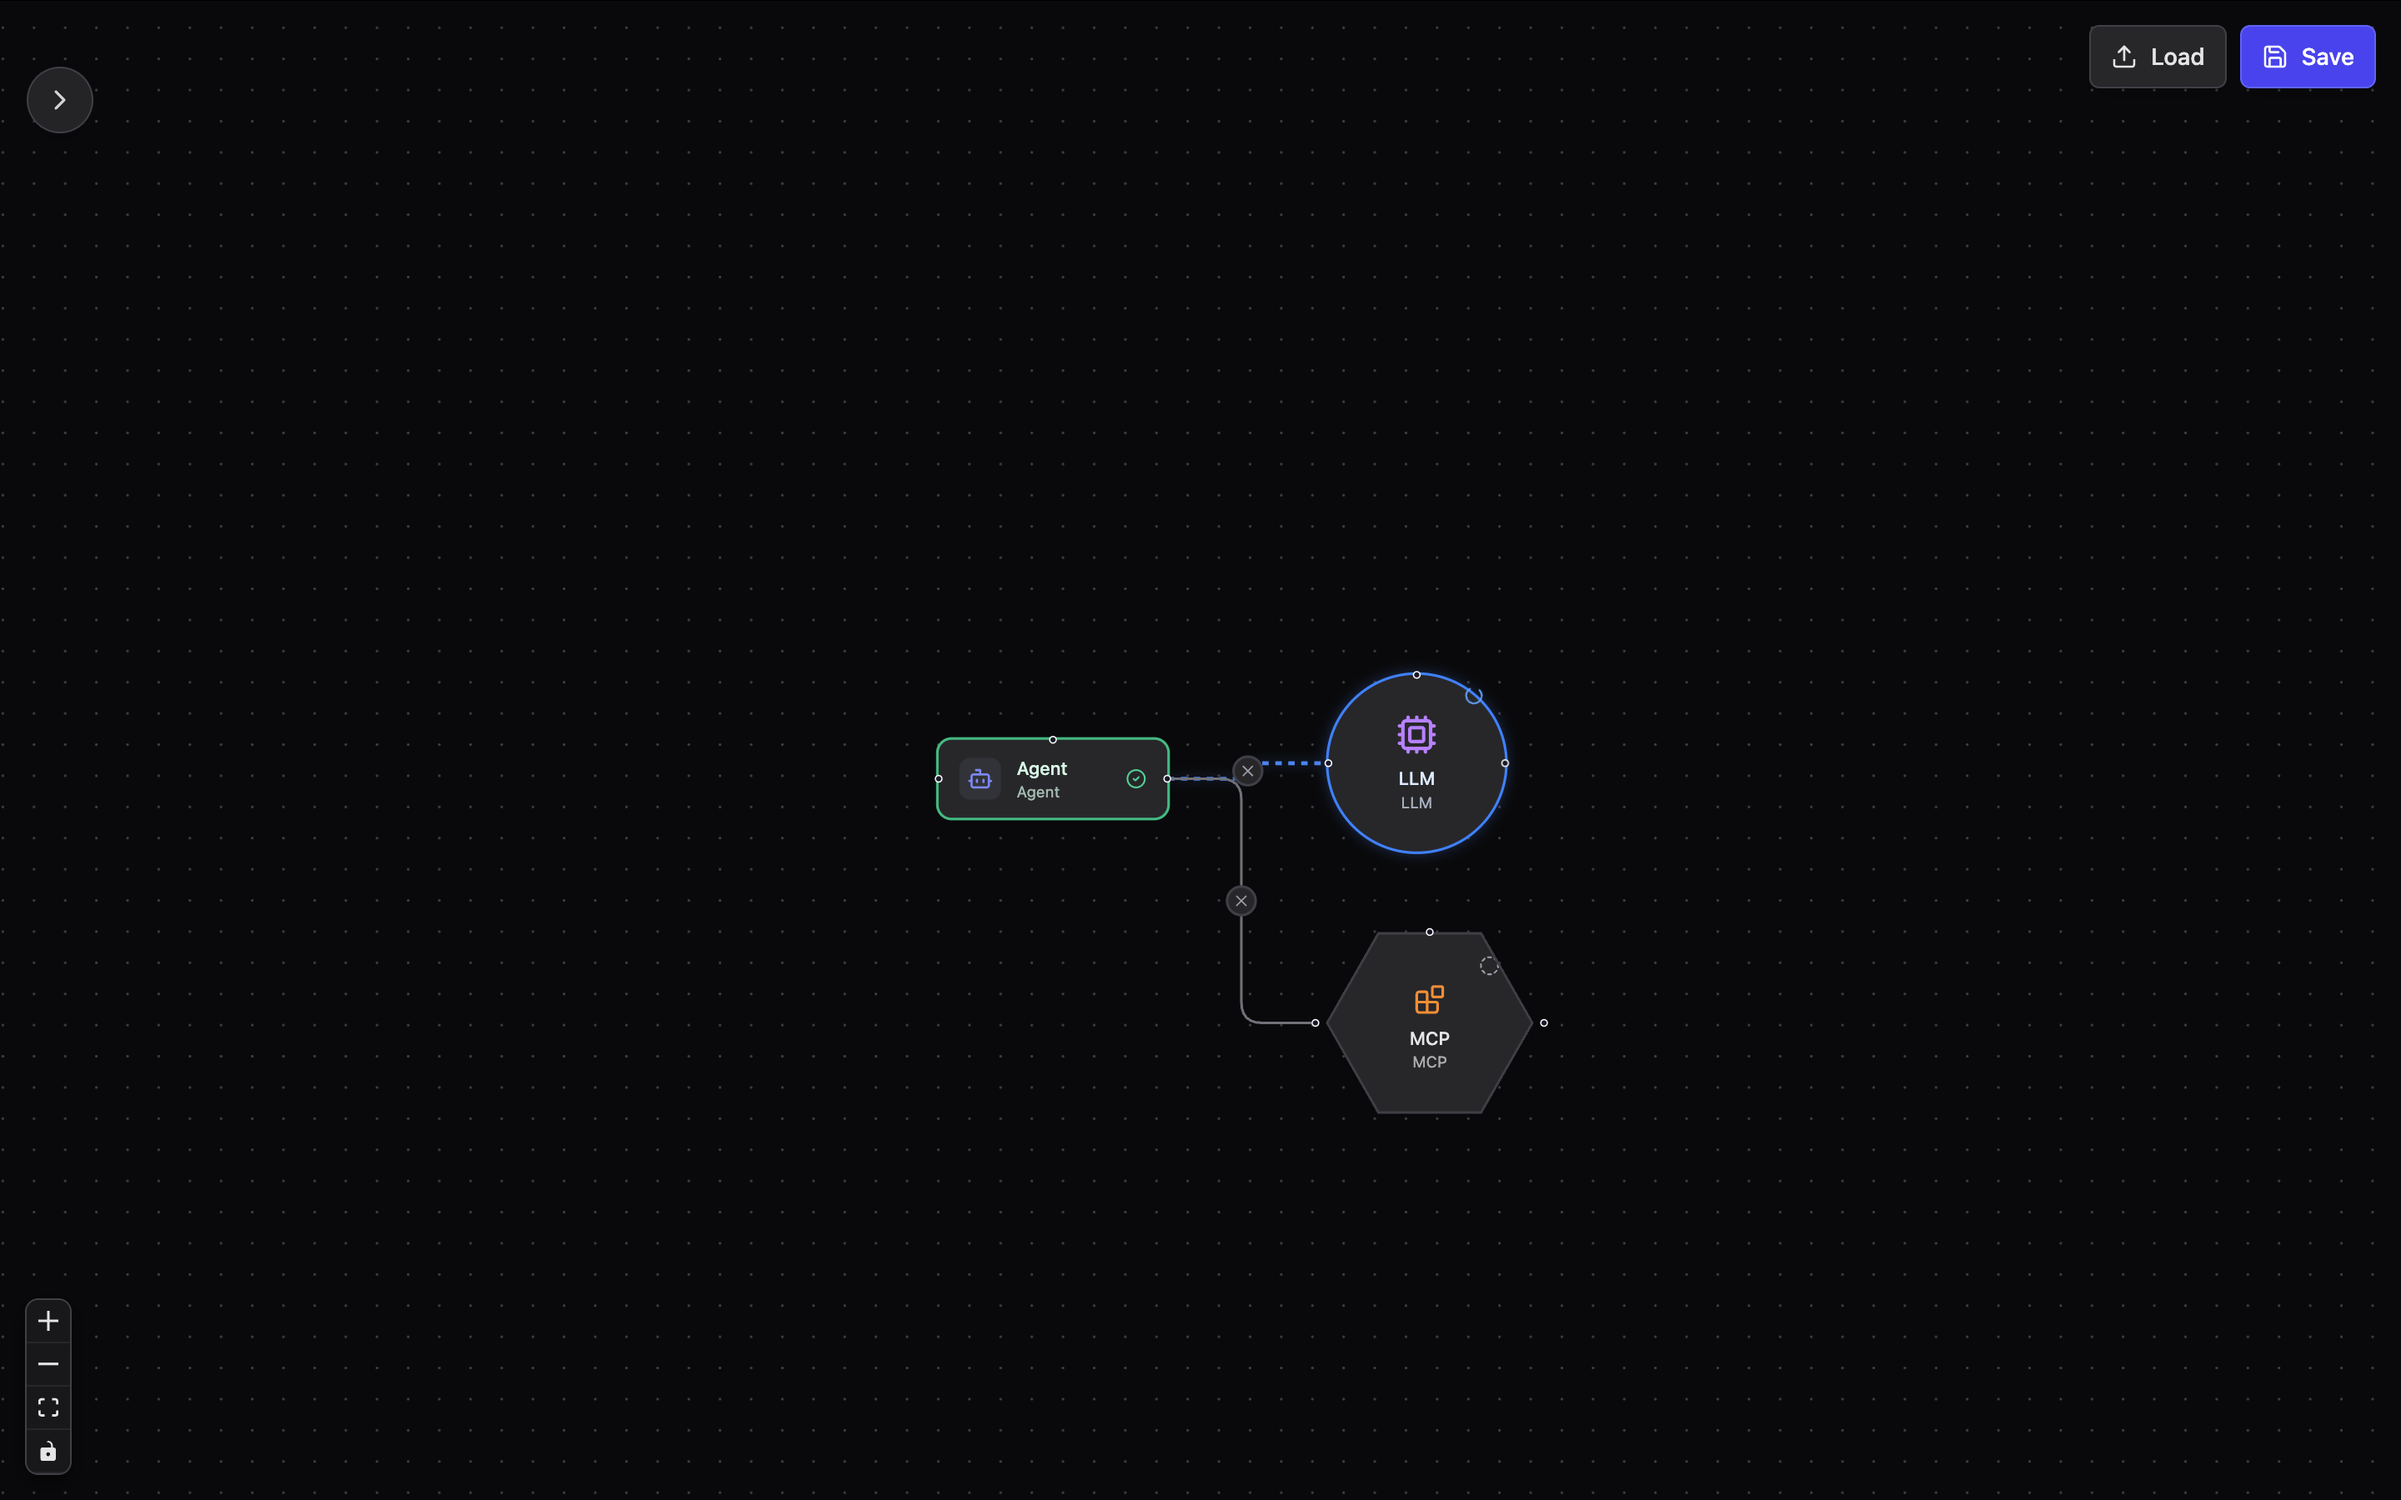
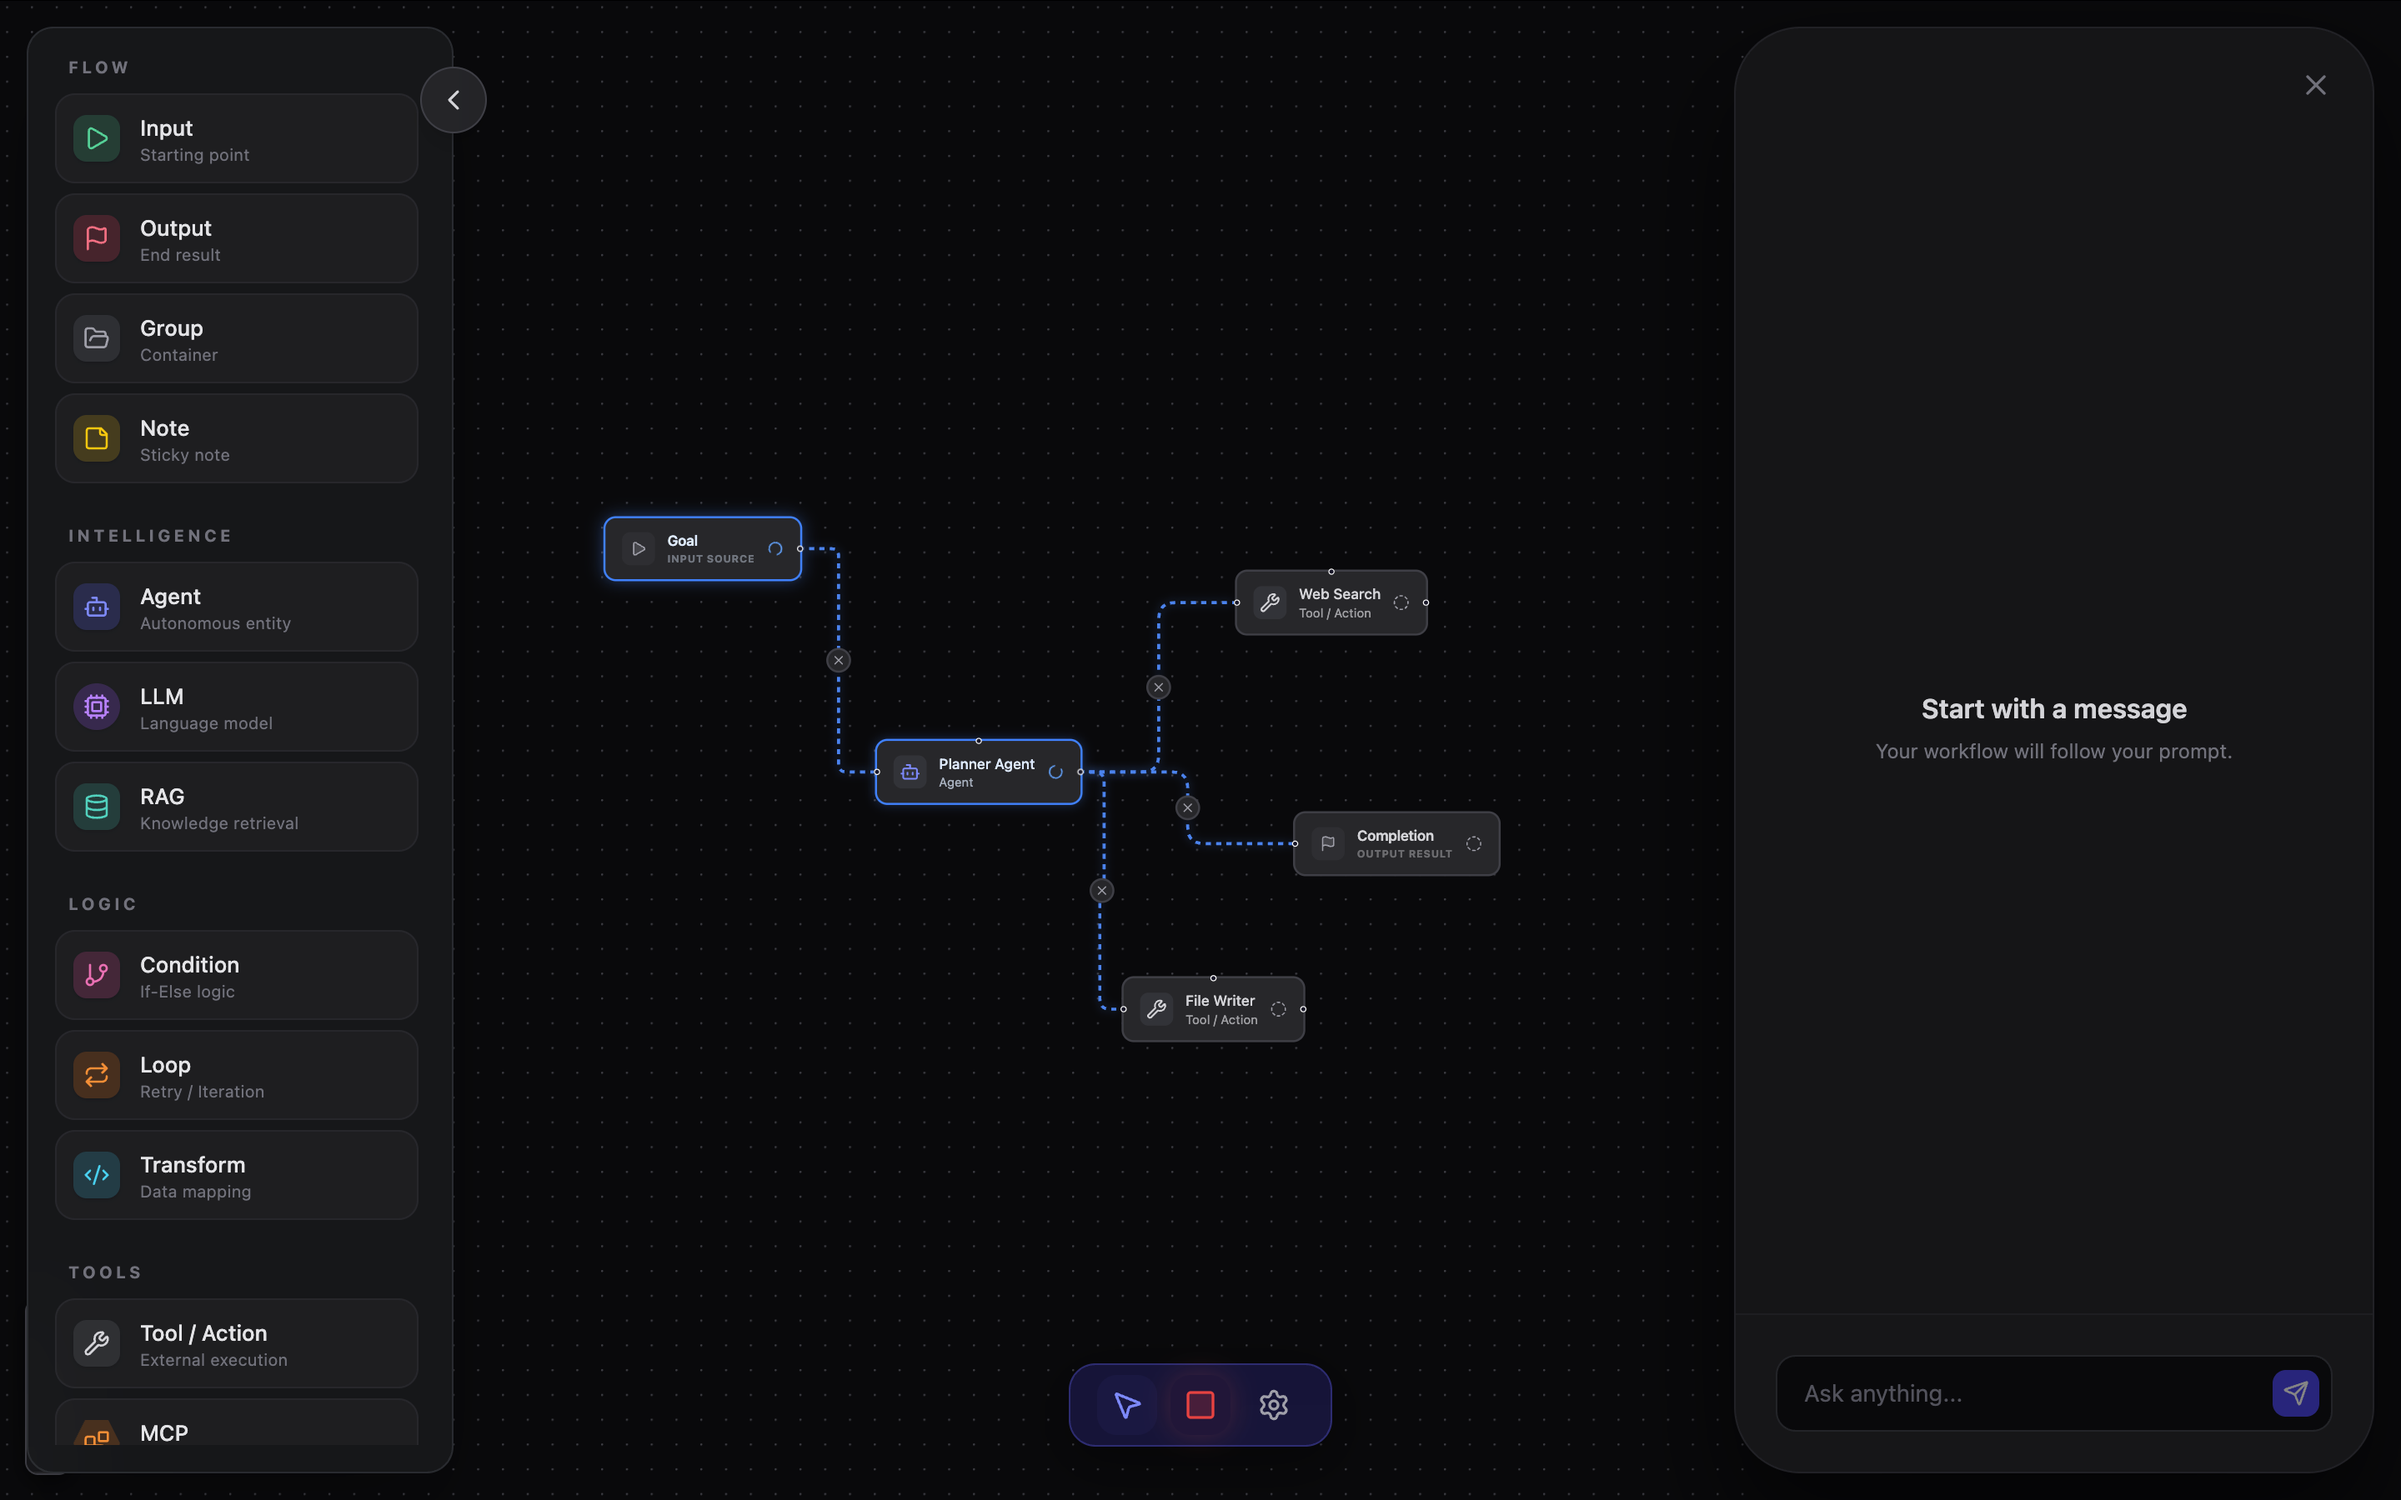
Add New Template, expand workflow library with advanced AI patterns

diff --git a/src/lib/templates.ts b/src/lib/templates.ts
@@ -62,5 +62,83 @@ export const TEMPLATES: WorkflowTemplate[] = [
             { id: 'e2-3', source: '2', target: '3', animated: true },
             { id: 'e3-4', source: '3', target: '4', animated: true },
         ]
+    },
+    {
+        id: 'market-researcher',
+        name: 'Market Researcher',
+        description: 'Auto-search, clean and analyze market trends.',
+        category: 'Agentic',
+        nodes: [
+            { id: '1', type: 'Input', position: { x: 50, y: 150 }, data: { label: 'Research Topic', status: 'pending' } },
+            { id: '2', type: 'agent', position: { x: 300, y: 150 }, data: { label: 'Web Scraper Agent', status: 'pending' } },
+            { id: '3', type: 'transform', position: { x: 550, y: 150 }, data: { label: 'Data Cleaning', status: 'pending' } },
+            { id: '4', type: 'llm', position: { x: 800, y: 150 }, data: { label: 'Trend Analysis', status: 'pending' } },
+            { id: '5', type: 'Output', position: { x: 1050, y: 150 }, data: { label: 'Final Report', status: 'pending' } },
+        ],
+        edges: [
+            { id: 'e1-2', source: '1', target: '2', animated: true },
+            { id: 'e2-3', source: '2', target: '3', animated: true },
+            { id: 'e3-4', source: '3', target: '4', animated: true },
+            { id: 'e4-5', source: '4', target: '5', animated: true },
+        ]
+    },
+    {
+        id: 'model-benchmark',
+        name: 'Model Benchmark',
+        description: 'Compare GPT-4 and Claude 3 responses side-by-side.',
+        category: 'Research',
+        nodes: [
+            { id: '1', type: 'Input', position: { x: 50, y: 150 }, data: { label: 'User Prompt', status: 'pending' } },
+            { id: '2a', type: 'llm', position: { x: 300, y: 50 }, data: { label: 'GPT-4 Engine', status: 'pending' } },
+            { id: '2b', type: 'llm', position: { x: 300, y: 250 }, data: { label: 'Claude 3 Engine', status: 'pending' } },
+            { id: '3', type: 'transform', position: { x: 550, y: 150 }, data: { label: 'Side-by-side Compare', status: 'pending' } },
+            { id: '4', type: 'Output', position: { x: 800, y: 150 }, data: { label: 'Comparison Result', status: 'pending' } },
+        ],
+        edges: [
+            { id: 'e1-2a', source: '1', target: '2a', animated: true },
+            { id: 'e1-2b', source: '1', target: '2b', animated: true },
+            { id: 'e2a-3', source: '2a', target: '3', animated: true },
+            { id: 'e2b-3', source: '2b', target: '3', animated: true },
+            { id: 'e3-4', source: '3', target: '4', animated: true },
+        ]
+    },
+    {
+        id: 'self-correction',
+        name: 'Self-Correction Loop',
+        description: 'Multi-stage writing with self-criticism and recursive improvement.',
+        category: 'Logic',
+        nodes: [
+            { id: '1', type: 'Input', position: { x: 50, y: 150 }, data: { label: 'Draft Topic', status: 'pending' } },
+            { id: '2', type: 'llm', position: { x: 300, y: 150 }, data: { label: 'Initial Generator', status: 'pending' } },
+            { id: '3', type: 'llm', position: { x: 550, y: 150 }, data: { label: 'Self-Critic', status: 'pending' } },
+            { id: '4', type: 'condition', position: { x: 800, y: 150 }, data: { label: 'Score > 80?', status: 'pending' } },
+            { id: '5', type: 'Output', position: { x: 1050, y: 150 }, data: { label: 'Final Polish', status: 'pending' } },
+        ],
+        edges: [
+            { id: 'e1-2', source: '1', target: '2', animated: true },
+            { id: 'e2-3', source: '2', target: '3', animated: true },
+            { id: 'e3-4', source: '3', target: '4', animated: true },
+            { id: 'e4-5', source: '4', target: '5', animated: true },
+            { id: 'e4-2-loop', source: '4', target: '2', targetHandle: 'loop-return', animated: true, label: 'Retry', style: { stroke: '#fb923c' } },
+        ]
+    },
+    {
+        id: 'advanced-rag',
+        name: 'Advanced RAG with MCP',
+        description: 'Connect Local SQLite/File systems via MCP to LLM workflows.',
+        category: 'Knowledge',
+        nodes: [
+            { id: '1', type: 'Input', position: { x: 50, y: 150 }, data: { label: 'System Inquiry', status: 'pending' } },
+            { id: '2', type: 'mcp', position: { x: 300, y: 150 }, data: { label: 'Local SQLite MCP', status: 'pending' } },
+            { id: '3', type: 'rag', position: { x: 550, y: 150 }, data: { label: 'Semantic Search', status: 'pending' } },
+            { id: '4', type: 'llm', position: { x: 800, y: 150 }, data: { label: 'Contextual Response', status: 'pending' } },
+            { id: '5', type: 'Output', position: { x: 1050, y: 150 }, data: { label: 'Final Output', status: 'pending' } },
+        ],
+        edges: [
+            { id: 'e1-2', source: '1', target: '2', animated: true },
+            { id: 'e2-3', source: '2', target: '3', animated: true },
+            { id: 'e3-4', source: '3', target: '4', animated: true },
+            { id: 'e4-5', source: '4', target: '5', animated: true },
+        ]
     }
 ];

diff --git a/src/components/TemplateModal.tsx b/src/components/TemplateModal.tsx
@@ -67,8 +67,8 @@ export function TemplateModal({ isOpen, onClose, onSelect }: TemplateModalProps)
                                     <LayoutGrid className="w-7 h-7 text-indigo-400" />
                                 </div>
                                 <div>
-                                    <h2 className="text-2xl font-bold text-zinc-100 uppercase tracking-tight">Workflow Registry</h2>
-                                    <p className="text-sm text-zinc-500 font-medium">Select a blueprint to begin your architecture</p>
+                                    <h2 className="text-2xl font-bold text-zinc-100 uppercase tracking-tight">Workflow</h2>
+                                    <p className="text-sm text-zinc-500 font-medium">Choose a template to get started</p>
                                 </div>
                             </div>
                             <button

diff --git a/README.md b/README.md
@@ -21,9 +21,11 @@ Agent Flow Studio is designed around user privacy and data security. Unlike othe
 - **Direct Communication**: Execution requests are sent directly from your browser to the AI service (Google/OpenAI).
 - **Transparent Management**: You can reset, clear, or update your local configuration at any time via the "Settings" panel in the sidebar.
 
-## Preview
+### User Interface
+![User Interface](./assets/demo.png)
 
-![Demo Screenshot](./assets/demo.png)
+### Template
+![Template](./assets/template.png)
 
 ## Quick Start
 
